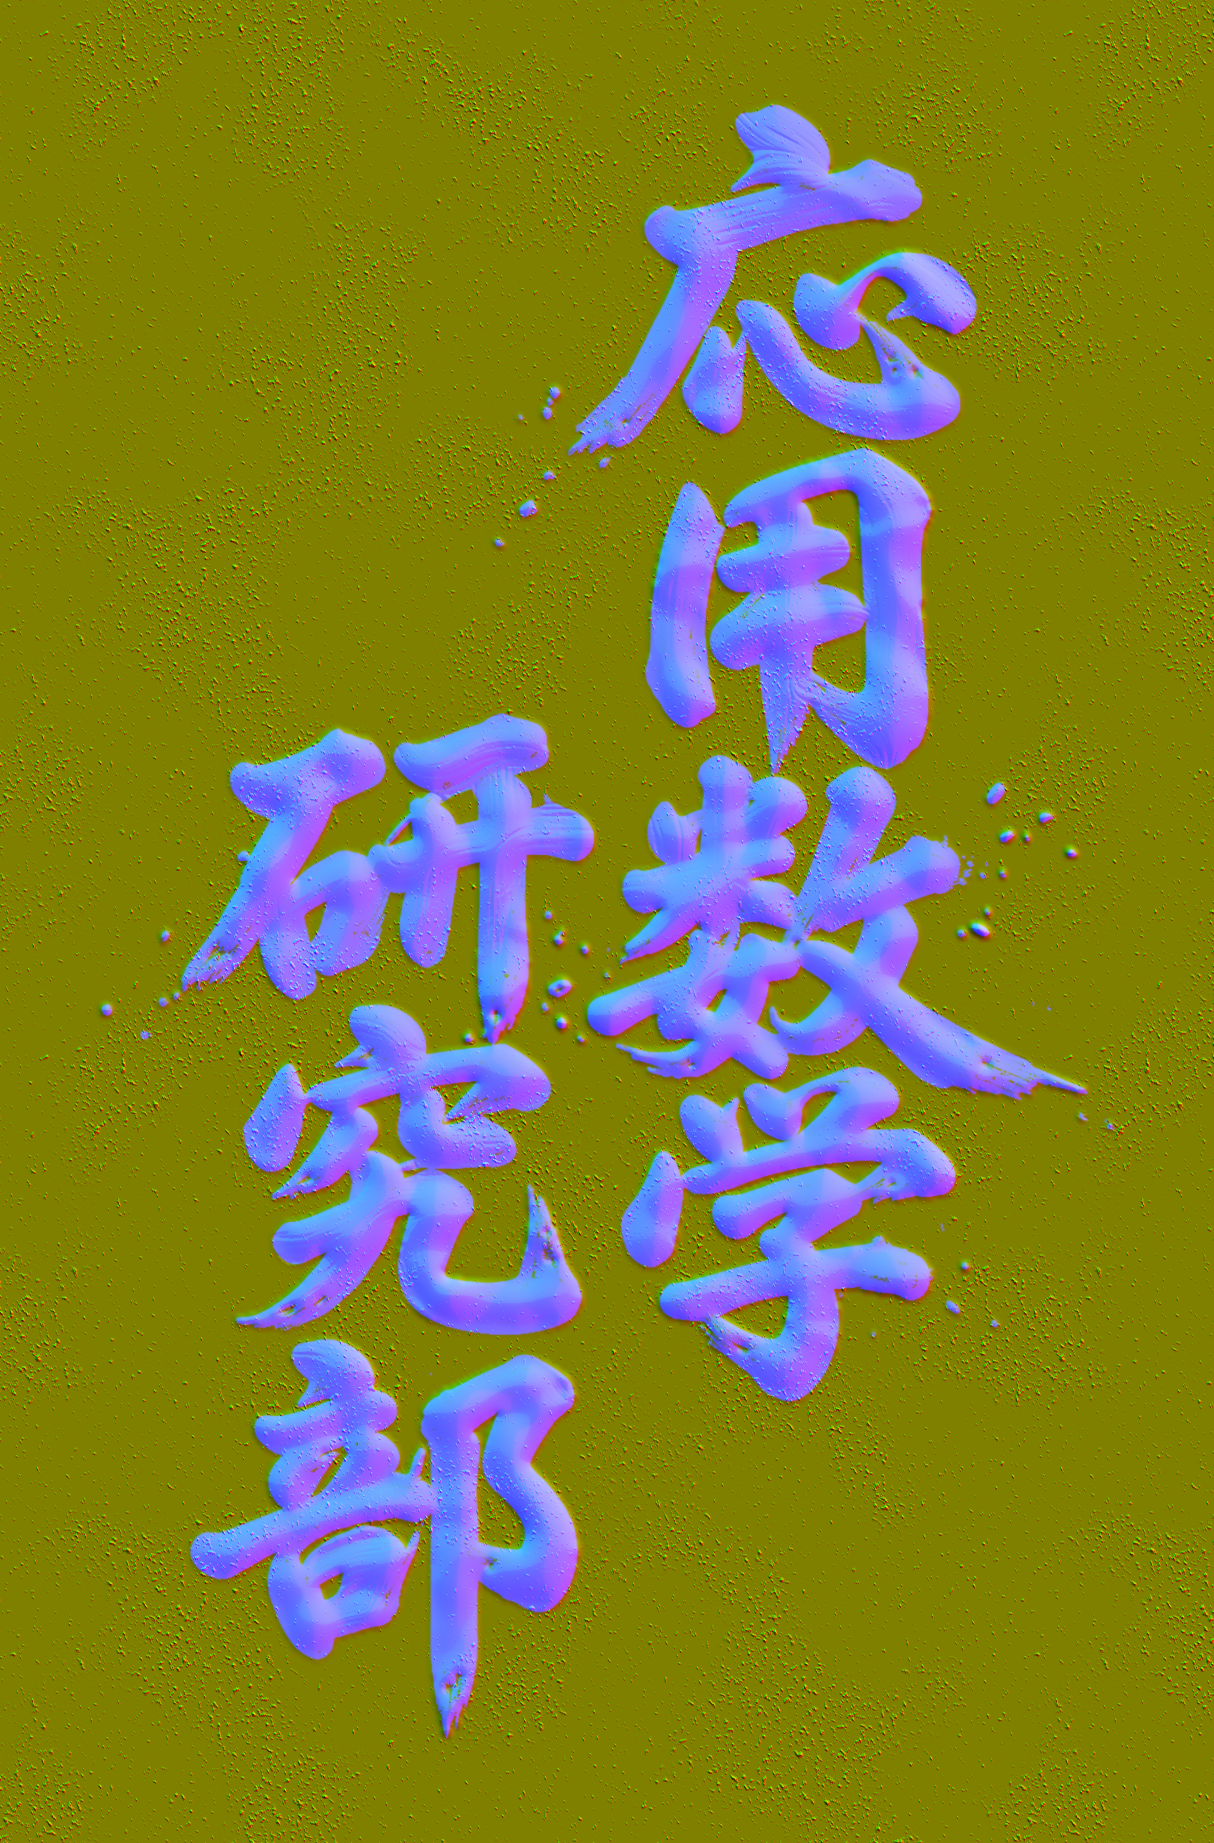
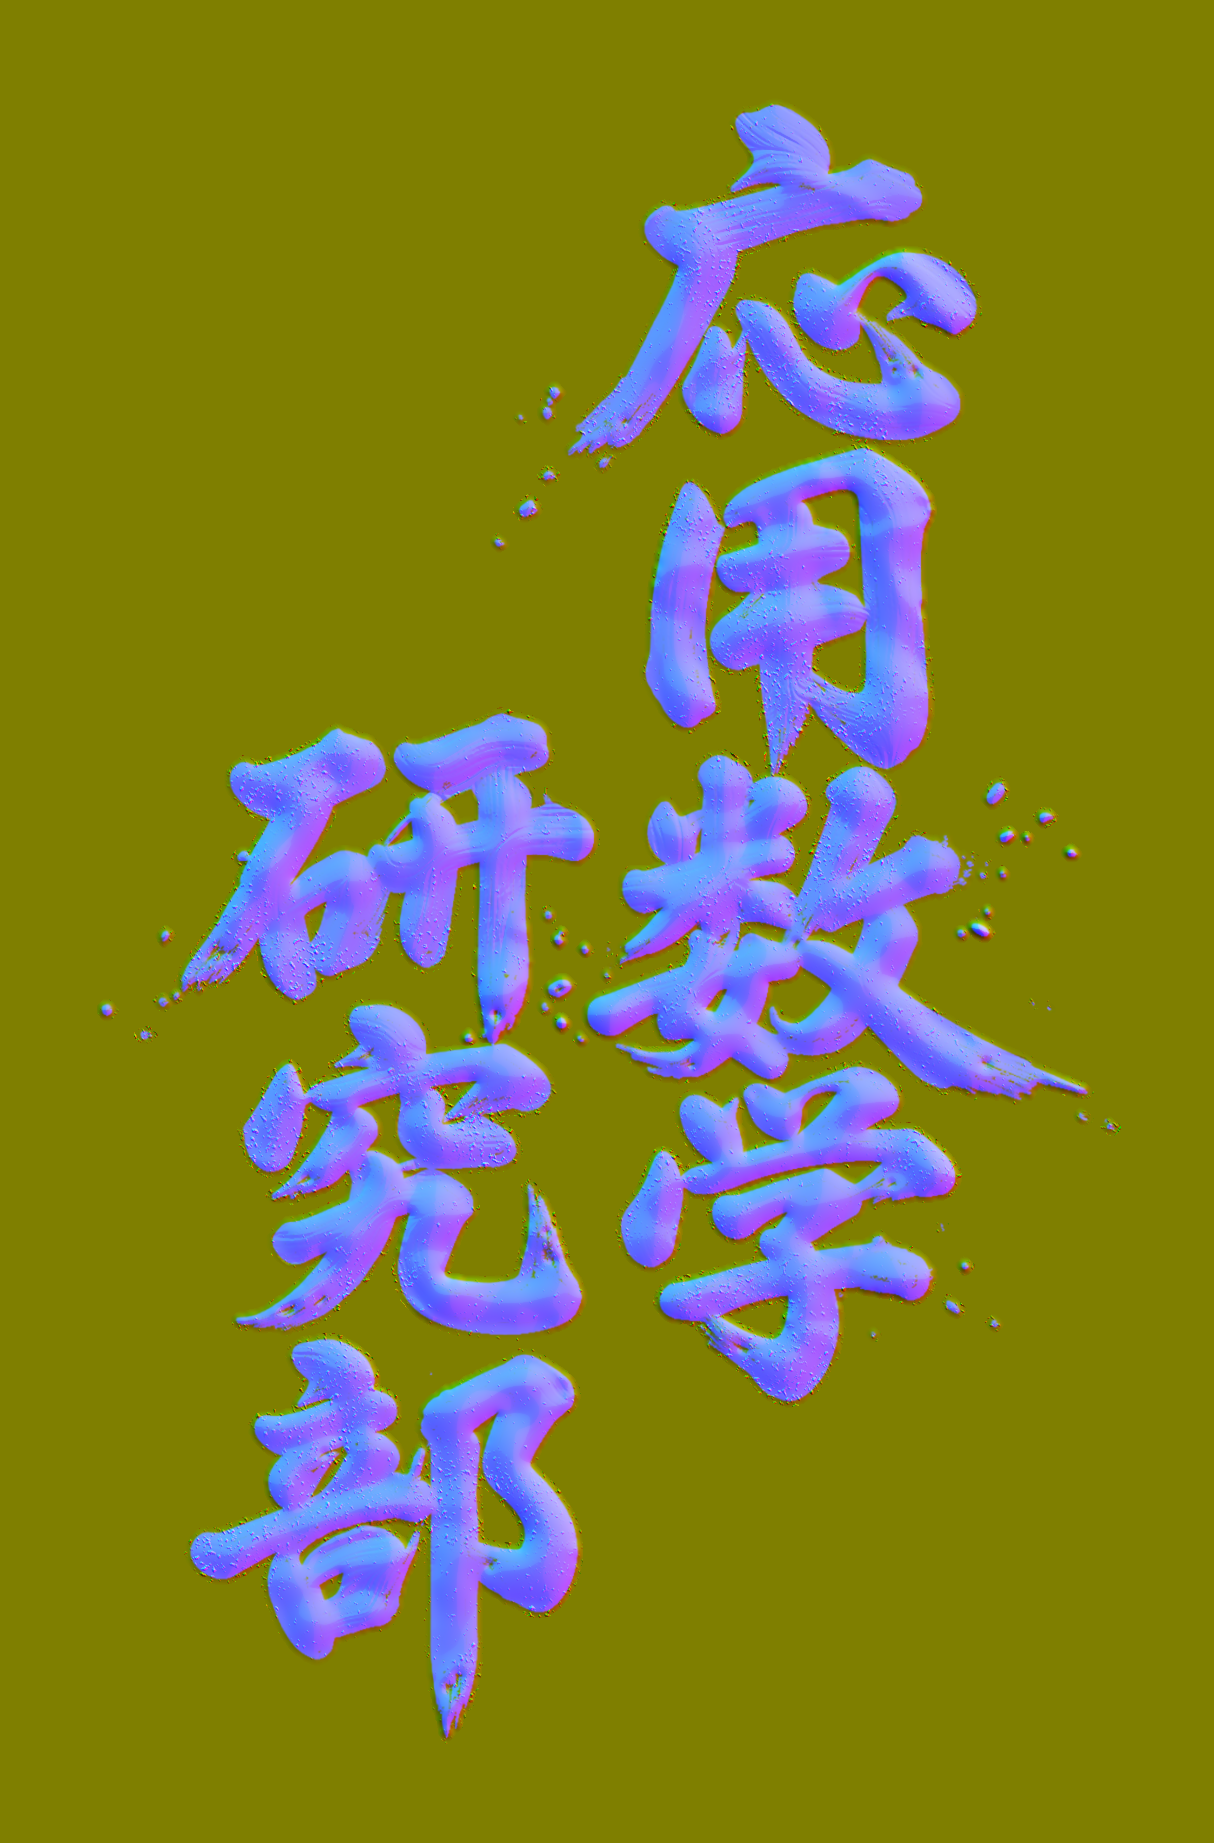
fix(qa): サイト全体のアクセシビリティ・SEO・リンク・表示速度の問題を修正
- 全ページに meta description / OGP / Twitter カード / canonical を追加し、
  シェア用画像(og.jpg)を作成。記事ページは本文冒頭から説明文を生成
- WCAG AA のコントラスト不足を解消(メニュー文字、Markdownのボタン風リンク、
  編集リクエストリンク、スケジュールのイベント、入会ボタン、連絡先ブロック、部費ページの補足)
- <main> ランドマーク、ロゴリンクの読み上げ名、News/Contact の見出し、
  理大祭ページのタイトル・h1・画像alt を追加。トップのコピーのARIA誤用を修正
- Schedule/Contact/News の「編集をリクエスト」が archive.md を指していたのを修正
- Markdownガイド内の相対リンク切れを修正し、サイト内リンクは / 始まりで書くよう追記
- 無効なCSS記法 color(# alpha()) を rgba に置換
- ヒーローのテクスチャを軽量化(字形の外を一定値で埋める・距離場を半解像度に):
  画像合計 約2.6MB → 約1.5MB、見た目は変化なし

diff --git a/src/components/Head/index.tsx b/src/components/Head/index.tsx
@@ -1,18 +1,58 @@
 import Head from 'next/head'
+import { useRouter } from 'next/router'
 import meta from '_configs/meta.json'
 
 interface PageHeadProps {
   title?: string
+  /** 検索結果やSNSのプレビューに出る説明文。省略時はサイト共通の説明 */
+  description?: string
+  /** 記事ページは article、それ以外は website */
+  type?: 'website' | 'article'
 }
 
 const TITLE_PREFIX = meta.title_prefix
+// OGP・canonical は本番ドメインの絶対URLである必要がある(PRプレビューでも本番を指す)
+const SITE_URL = 'https://oskt.us'
+const DEFAULT_DESCRIPTION =
+  '東京理科大学 応用数学研究部(応数研・OSK)の公式サイト。半世紀以上続く部活で、機械学習・数理統計・コンピュータサイエンス・競技プログラミング・3DCG・Web/アプリ開発の班に分かれて活動しています。'
+const OG_IMAGE = `${SITE_URL}/images/og.jpg`
 
-export function PageHead({ title: _title = '' }: PageHeadProps) {
+/** Markdown本文から、検索結果向けの短い説明文(約110字)を作る */
+export function descriptionFromMarkdown(markdown: string, max = 110): string {
+  const text = markdown
+    .replace(/<[^>]+>/g, ' ') // 生HTML(埋め込み等)
+    .replace(/!\[[^\]]*\]\([^)]*\)/g, ' ') // 画像
+    .replace(/\[([^\]]*)\]\([^)]*\)/g, '$1') // リンクは文字だけ残す
+    .replace(/^#{1,6}\s+.*$/gm, ' ') // 見出し行
+    .replace(/[*_`>|~-]+/g, ' ')
+    .replace(/\s+/g, ' ')
+    .trim()
+  return text.length > max ? `${text.slice(0, max)}…` : text
+}
+
+export function PageHead({ title: _title = '', description = DEFAULT_DESCRIPTION, type = 'website' }: PageHeadProps) {
   const title = _title ? `${TITLE_PREFIX} - ${_title}` : TITLE_PREFIX
+  const { asPath } = useRouter()
+  const path = asPath.split(/[?#]/)[0]
+  const url = `${SITE_URL}${path === '/' ? '' : path}`
   return (
     <Head>
       <meta charSet="utf-8"></meta>
       <title>{title}</title>
+      <meta name="description" content={description} />
+      <link rel="canonical" href={url} />
+      <meta name="theme-color" content="#0d0d12" />
+      <meta property="og:site_name" content={TITLE_PREFIX} />
+      <meta property="og:locale" content="ja_JP" />
+      <meta property="og:type" content={type} />
+      <meta property="og:title" content={title} />
+      <meta property="og:description" content={description} />
+      <meta property="og:url" content={url} />
+      <meta property="og:image" content={OG_IMAGE} />
+      <meta property="og:image:width" content="1200" />
+      <meta property="og:image:height" content="630" />
+      <meta name="twitter:card" content="summary_large_image" />
+      <meta name="twitter:site" content="@tus_osk" />
     </Head>
   )
 }

diff --git a/pages/pay/index.tsx b/pages/pay/index.tsx
@@ -479,7 +479,7 @@ const Container = styled.div`
 `
 const Title = styled.h1`font-size: 1.8rem; font-weight: bold; margin-bottom: 8px;`
 const Subtitle = styled.p`color: #666; margin-bottom: 40px;`
-const LoadingMsg = styled.p`color: #888;`
+const LoadingMsg = styled.p`color: #6b6b6b;`
 const LoginSection = styled.div`display: flex; flex-direction: column; gap: 24px; padding: 8px 0;`
 const Step = styled.div`display: flex; gap: 16px; align-items: flex-start;`
 const StepNum = styled.div`
@@ -489,7 +489,7 @@ const StepNum = styled.div`
 `
 const StepBody = styled.div`display: flex; flex-direction: column; gap: 6px; flex: 1;`
 const StepLabel = styled.div`font-weight: bold;`
-const StepDesc = styled.div`font-size: 0.85rem; color: #888;`
+const StepDesc = styled.div`font-size: 0.85rem; color: #6b6b6b;`
 const StepDivider = styled.div`border-left: 2px dashed #ddd; height: 16px; margin-left: 13px;`
 const VisitNote = styled.p`
   font-size: 0.82rem; color: #666; line-height: 1.6; margin-top: 4px;
@@ -536,11 +536,11 @@ const UserBadge = styled.div`
 const BadgeCheck = styled.span`color: #16a34a; font-weight: bold;`
 const BadgeName = styled.span`font-weight: bold; flex: 1;`
 const BadgeChange = styled.button`
-  background: none; border: none; color: #888; font-size: 0.85rem; cursor: pointer; text-decoration: underline;
+  background: none; border: none; color: #6b6b6b; font-size: 0.85rem; cursor: pointer; text-decoration: underline;
 `
 const Form = styled.form`display: flex; flex-direction: column; gap: 20px;`
 const SectionTitle = styled.h2`font-size: 1rem; font-weight: bold; border-bottom: 1px solid #eee; padding-bottom: 8px; margin-top: 8px;`
-const FieldNote = styled.p`font-size: 0.82rem; color: #888; margin-top: -12px;`
+const FieldNote = styled.p`font-size: 0.82rem; color: #6b6b6b; margin-top: -12px;`
 const Row = styled.div`display: grid; grid-template-columns: 1fr 1fr; gap: 16px;`
 const FieldGroup = styled.div`display: flex; flex-direction: column; gap: 6px;`
 const Label = styled.label`font-size: 0.9rem; font-weight: bold;`

diff --git a/src/components/MarkdownBody/index.tsx b/src/components/MarkdownBody/index.tsx
@@ -101,7 +101,7 @@ const EditRequestContainer = styled.div`
 `
 
 const ExternalLink = styled.a`
-  color: #bbb;
+  color: #767676;
   font-size: 14px;
 `
 
@@ -129,12 +129,12 @@ export const MarkdownBodyContainer = styled.div<{ centered: boolean }>`
   }
 
   a[href$='?pretty'] {
-    border: solid 1px #da6272;
+    border: solid 1px #c2414f;
     display: inline-flex;
     align-items: center;
     padding: 5px 20px;
     text-decoration: none;
-    color: #da6272;
+    color: #c2414f;
     font-weight: bold;
     transition-property: background-color, color, opacity;
     transition-duration: 0.2s;
@@ -146,8 +146,8 @@ export const MarkdownBodyContainer = styled.div<{ centered: boolean }>`
       display: inline-flex;
       width: 5px;
       height: 5px;
-      border-top: 2px solid #da6272;
-      border-right: 2px solid #da6272;
+      border-top: 2px solid #c2414f;
+      border-right: 2px solid #c2414f;
       transform: translateX(-6px) rotate(45deg);
       transition-property: border-top, border-right;
       transition-duration: 0.2s;
@@ -155,7 +155,7 @@ export const MarkdownBodyContainer = styled.div<{ centered: boolean }>`
     }
 
     &:hover {
-      background-color: #da6272;
+      background-color: #c2414f;
       color: #fff;
       &::before {
         border-top: 2px solid #fff;
@@ -250,9 +250,9 @@ export const MarkdownBodyContainer = styled.div<{ centered: boolean }>`
     display: block;
     font-family: inherit;
     padding: 1em 1.5em;
-    color: #da6272;
-    border-left: 0.25em solid #da6272;
-    background-color: color(#da6272 alpha(10%));
+    color: #c2414f;
+    border-left: 0.25em solid #c2414f;
+    background-color: rgba(194, 65, 79, 0.08);
     word-wrap: break-word;
   }
 
@@ -262,7 +262,7 @@ export const MarkdownBodyContainer = styled.div<{ centered: boolean }>`
     padding: 1em 1.5em;
     color: #5d639e;
     border-left: 0.25em solid #5d639e;
-    background-color: color(#5d639e alpha(10%));
+    background-color: rgba(93, 99, 158, 0.08);
     word-wrap: break-word;
   }
 `

diff --git a/src/components/Logo/index.tsx b/src/components/Logo/index.tsx
@@ -1,6 +1,14 @@
 export default function Logo() {
   return (
-    <svg width="100" height="32" viewBox="0 0 100 32" fill="black" xmlns="http://www.w3.org/2000/svg">
+    <svg
+      width="100"
+      height="32"
+      viewBox="0 0 100 32"
+      fill="black"
+      xmlns="http://www.w3.org/2000/svg"
+      aria-hidden="true"
+      focusable="false"
+    >
       <path d="M22 9.65625C22 7.15273 19.949 5.125 17.4167 5.125C14.8844 5.125 12.8333 7.15273 12.8333 9.65625C12.8333 11.718 14.2255 13.4568 16.1276 14.0062C16.0932 14.9182 15.887 15.6205 15.4974 16.0963C14.6151 17.1838 12.6729 17.365 10.6161 17.552C9.00052 17.6992 7.3276 17.8578 5.95833 18.5092V10.3529C7.82031 9.77519 9.16667 8.05898 9.16667 6.03125C9.16667 3.52773 7.11563 1.5 4.58333 1.5C2.05104 1.5 0 3.52773 0 6.03125C0 8.05898 1.34635 9.77519 3.20833 10.3529V21.6414C1.34635 22.2248 0 23.941 0 25.9688C0 28.4723 2.05104 30.5 4.58333 30.5C7.11563 30.5 9.16667 28.4723 9.16667 25.9688C9.16667 24.043 7.95208 22.3947 6.23333 21.7434C6.41094 21.4488 6.68021 21.1883 7.08698 20.9844C8.0151 20.5199 9.40156 20.3953 10.874 20.2594C13.2917 20.0385 16.0302 19.7836 17.6458 17.8012C18.4479 16.8156 18.8547 15.5469 18.8833 13.9553C20.6938 13.3436 22 11.65 22 9.65625ZM4.58333 5.125C5.0875 5.125 5.5 5.53281 5.5 6.03125C5.5 6.52969 5.0875 6.9375 4.58333 6.9375C4.07917 6.9375 3.66667 6.52969 3.66667 6.03125C3.66667 5.53281 4.07917 5.125 4.58333 5.125ZM4.58333 26.875C4.07917 26.875 3.66667 26.4672 3.66667 25.9688C3.66667 25.4703 4.07917 25.0625 4.58333 25.0625C5.0875 25.0625 5.5 25.4703 5.5 25.9688C5.5 26.4672 5.0875 26.875 4.58333 26.875ZM17.4167 8.75C17.9208 8.75 18.3333 9.15781 18.3333 9.65625C18.3333 10.1547 17.9208 10.5625 17.4167 10.5625C16.9125 10.5625 16.5 10.1547 16.5 9.65625C16.5 9.15781 16.9125 8.75 17.4167 8.75Z" />
       <path d="M95.3724 10.1053L84 20.6333L95.3724 31.1579H100L87.972 20.6333L100 10.1053H95.3724Z" />
       <path d="M83 0H80V31.1579H83V0Z" />

diff --git a/src/pages/Contact/index.tsx b/src/pages/Contact/index.tsx
@@ -1,6 +1,7 @@
 import { ReactNode } from 'react'
 import { PageHead } from 'src/components/Head'
 import MainLayout from 'src/components/MainLayout'
+import MarkdownTitle from 'src/components/MarkdownTitle'
 import MarkdownBody from 'src/components/MarkdownBody'
 import { FixedSizeContents, Section } from 'src/components/MainLayout/elements'
 import { externalTo, mailTo, urlPageMdEdit } from 'src/utils/urls'
@@ -25,6 +26,7 @@ export default function Contact({ title, clubroom, twitterId, mail, body }: Prop
       <MainLayout>
         <Section>
           <FixedSizeContents size={440}>
+            {title && <MarkdownTitle title={title}></MarkdownTitle>}
             <ContactList>
               <ContactItem icon={<MarkerIcon />} label="Clubroom">
                 {clubroom}
@@ -38,7 +40,7 @@ export default function Contact({ title, clubroom, twitterId, mail, body }: Prop
                 <ExternalLink href={mailTo(mail)}>{mail}</ExternalLink>
               </ContactItem>
             </ContactList>
-            <MarkdownBody centered body={body} editRequestUrl={urlPageMdEdit('archive')}></MarkdownBody>
+            <MarkdownBody centered body={body} editRequestUrl={urlPageMdEdit('contact')}></MarkdownBody>
           </FixedSizeContents>
         </Section>
       </MainLayout>

diff --git a/src/pages/Ridaisai2023/index.tsx b/src/pages/Ridaisai2023/index.tsx
@@ -35,9 +35,7 @@ export default function Ridaisai2023() {
           <MainContents>
             <Tabs>
               <TabList>
-                <Tab>
-                  Hackers' Cafe
-                </Tab>
+                <Tab>Hackers' Cafe</Tab>
                 <Tab>アルゴリズムクイズ by 競プロ班</Tab>
                 <Tab>CG班</Tab>
                 <Tab>レイトレーシング班</Tab>
@@ -60,7 +58,7 @@ export default function Ridaisai2023() {
         </Body>
         <Footer></Footer>
         <Header>
-          <LogoWrapper href="/" open={openLogo}>
+          <LogoWrapper href="/" open={openLogo} aria-label="応用数学研究部 トップページ">
             <Logo />
           </LogoWrapper>
         </Header>
@@ -119,7 +117,6 @@ const LogoWrapper = styled(Link)<{ open: boolean }>`
         `}
 `
 
-
 const MainContents = styled.div`
   flex: 1;
   overflow: hidden;
@@ -129,7 +126,6 @@ const MainContents = styled.div`
     padding: 24px;
   }
 `
-
 
 const Body = styled.div`
   position: relative;

diff --git a/src/pages/News/index.tsx b/src/pages/News/index.tsx
@@ -1,6 +1,7 @@
 import { compareDesc, format } from 'date-fns'
 import { PageHead } from 'src/components/Head'
 import MainLayout from 'src/components/MainLayout'
+import MarkdownTitle from 'src/components/MarkdownTitle'
 import MarkdownBody from 'src/components/MarkdownBody'
 import { FixedSizeContents, Section } from 'src/components/MainLayout/elements'
 import { StyledLink as StyledLink_ } from 'src/utils/next/elements'
@@ -21,8 +22,9 @@ export default function News({ title, body, metaList }: Props) {
       <MainLayout>
         <Section>
           <FixedSizeContents size={520}>
+            {title && <MarkdownTitle title={title}></MarkdownTitle>}
             <MetaList metaList={sortedMetaList}></MetaList>
-            <MarkdownBody body={body} editRequestUrl={urlPageMdEdit('archive')}></MarkdownBody>
+            <MarkdownBody body={body} editRequestUrl={urlPageMdEdit('news')}></MarkdownBody>
           </FixedSizeContents>
         </Section>
       </MainLayout>

diff --git a/pages/ridaisai/2021.tsx b/pages/ridaisai/2021.tsx
@@ -1,10 +1,27 @@
+import styled from '@emotion/styled'
+import { PageHead } from 'src/components/Head'
 import Ridaisai2021 from 'src/pages/Ridaisai2021'
 import BreakPointProvider from 'src/pages/Ridaisai2021/breakpoint/Provider'
 
 export default function Ridaisai2021Page() {
   return (
     <BreakPointProvider>
+      <PageHead
+        title="理大祭2021"
+        description="応用数学研究部(OSK)の理大祭2021オンライン展示。部員の作品を公開しています。"
+      />
+      <VisuallyHiddenTitle>理大祭2021 特設ページ</VisuallyHiddenTitle>
       <Ridaisai2021 />
     </BreakPointProvider>
   )
 }
+
+// 見た目上のタイトルは画像・ロゴで表現されているため、見出し構造用のh1は視覚的に隠す
+const VisuallyHiddenTitle = styled.h1`
+  position: absolute;
+  width: 1px;
+  height: 1px;
+  overflow: hidden;
+  clip: rect(0 0 0 0);
+  white-space: nowrap;
+`

diff --git a/src/utils/next/elements.tsx b/src/utils/next/elements.tsx
@@ -6,6 +6,7 @@ interface StyledLinkProps {
   href: string
   children: ReactNode
   className?: string
+  'aria-label'?: string
 }
 
 // 旧実装は `<Link passHref><a>...</a></Link>` という、Next.js 12以前の
@@ -14,9 +15,9 @@ interface StyledLinkProps {
 // ネストしてしまい、ブラウザがそれを矯正した結果サーバー側の出力と食い違って
 // 全ページでハイドレーションエラーになっていた(2026-11、Next 16移行時の見落とし)。
 // Next.js純正のLinkにclassNameを直接渡す形に修正する。
-export function StyledLink({ href, children, className }: StyledLinkProps) {
+export function StyledLink({ href, children, className, 'aria-label': ariaLabel }: StyledLinkProps) {
   return (
-    <StyledLink_ href={href} className={className}>
+    <StyledLink_ href={href} className={className} aria-label={ariaLabel}>
       {children}
     </StyledLink_>
   )

diff --git a/src/pages/Home/index.tsx b/src/pages/Home/index.tsx
@@ -20,13 +20,15 @@ export default function Home({ newsData, aboutData, scheduleData, contactData }:
   return (
     <>
       <PageHead />
-      <HeroView></HeroView>
-      <ActivityGallery></ActivityGallery>
-      <AboutView aboutData={aboutData}></AboutView>
-      <BansView></BansView>
-      <ScheduleView scheduleData={scheduleData}></ScheduleView>
-      <NewsView newsData={newsData}></NewsView>
-      <ContactView contactData={contactData}></ContactView>
+      <main>
+        <HeroView></HeroView>
+        <ActivityGallery></ActivityGallery>
+        <AboutView aboutData={aboutData}></AboutView>
+        <BansView></BansView>
+        <ScheduleView scheduleData={scheduleData}></ScheduleView>
+        <NewsView newsData={newsData}></NewsView>
+        <ContactView contactData={contactData}></ContactView>
+      </main>
       <Footer></Footer>
     </>
   )

diff --git a/src/pages/Home/HeroView/index.tsx b/src/pages/Home/HeroView/index.tsx
@@ -81,7 +81,9 @@ export default function HeroView() {
       </Top>
       <Copy>
         <University>東京理科大学</University>
-        <Lead aria-label="そうだ、応用数学しよう。">
+        <Lead>
+          {/* 読み上げでは巡回する文字を毎回読ませず、固定の一文として伝える */}
+          <VisuallyHidden>そうだ、応用数学しよう。</VisuallyHidden>
           <span aria-hidden="true">
             そうだ、
             <br />
@@ -194,6 +196,15 @@ const Lead = styled.p`
   font-size: clamp(22px, 2.8vw, 40px);
   line-height: 1.5;
   letter-spacing: 0.08em;
+  white-space: nowrap;
+`
+
+const VisuallyHidden = styled.span`
+  position: absolute;
+  width: 1px;
+  height: 1px;
+  overflow: hidden;
+  clip: rect(0 0 0 0);
   white-space: nowrap;
 `
 

diff --git a/pages/ridaisai/2023.tsx b/pages/ridaisai/2023.tsx
@@ -1,9 +1,23 @@
+import styled from '@emotion/styled'
+import { PageHead } from 'src/components/Head'
 import Ridaisai2023 from 'src/pages/Ridaisai2023'
 
 export default function Ridaisai2023Page() {
   return (
     <>
+      <PageHead title="理大祭2023" description="応用数学研究部(OSK)の理大祭2023展示。部員の作品を公開しています。" />
+      <VisuallyHiddenTitle>理大祭2023 特設ページ</VisuallyHiddenTitle>
       <Ridaisai2023 />
     </>
   )
 }
+
+// 見た目上のタイトルは画像・ロゴで表現されているため、見出し構造用のh1は視覚的に隠す
+const VisuallyHiddenTitle = styled.h1`
+  position: absolute;
+  width: 1px;
+  height: 1px;
+  overflow: hidden;
+  clip: rect(0 0 0 0);
+  white-space: nowrap;
+`
